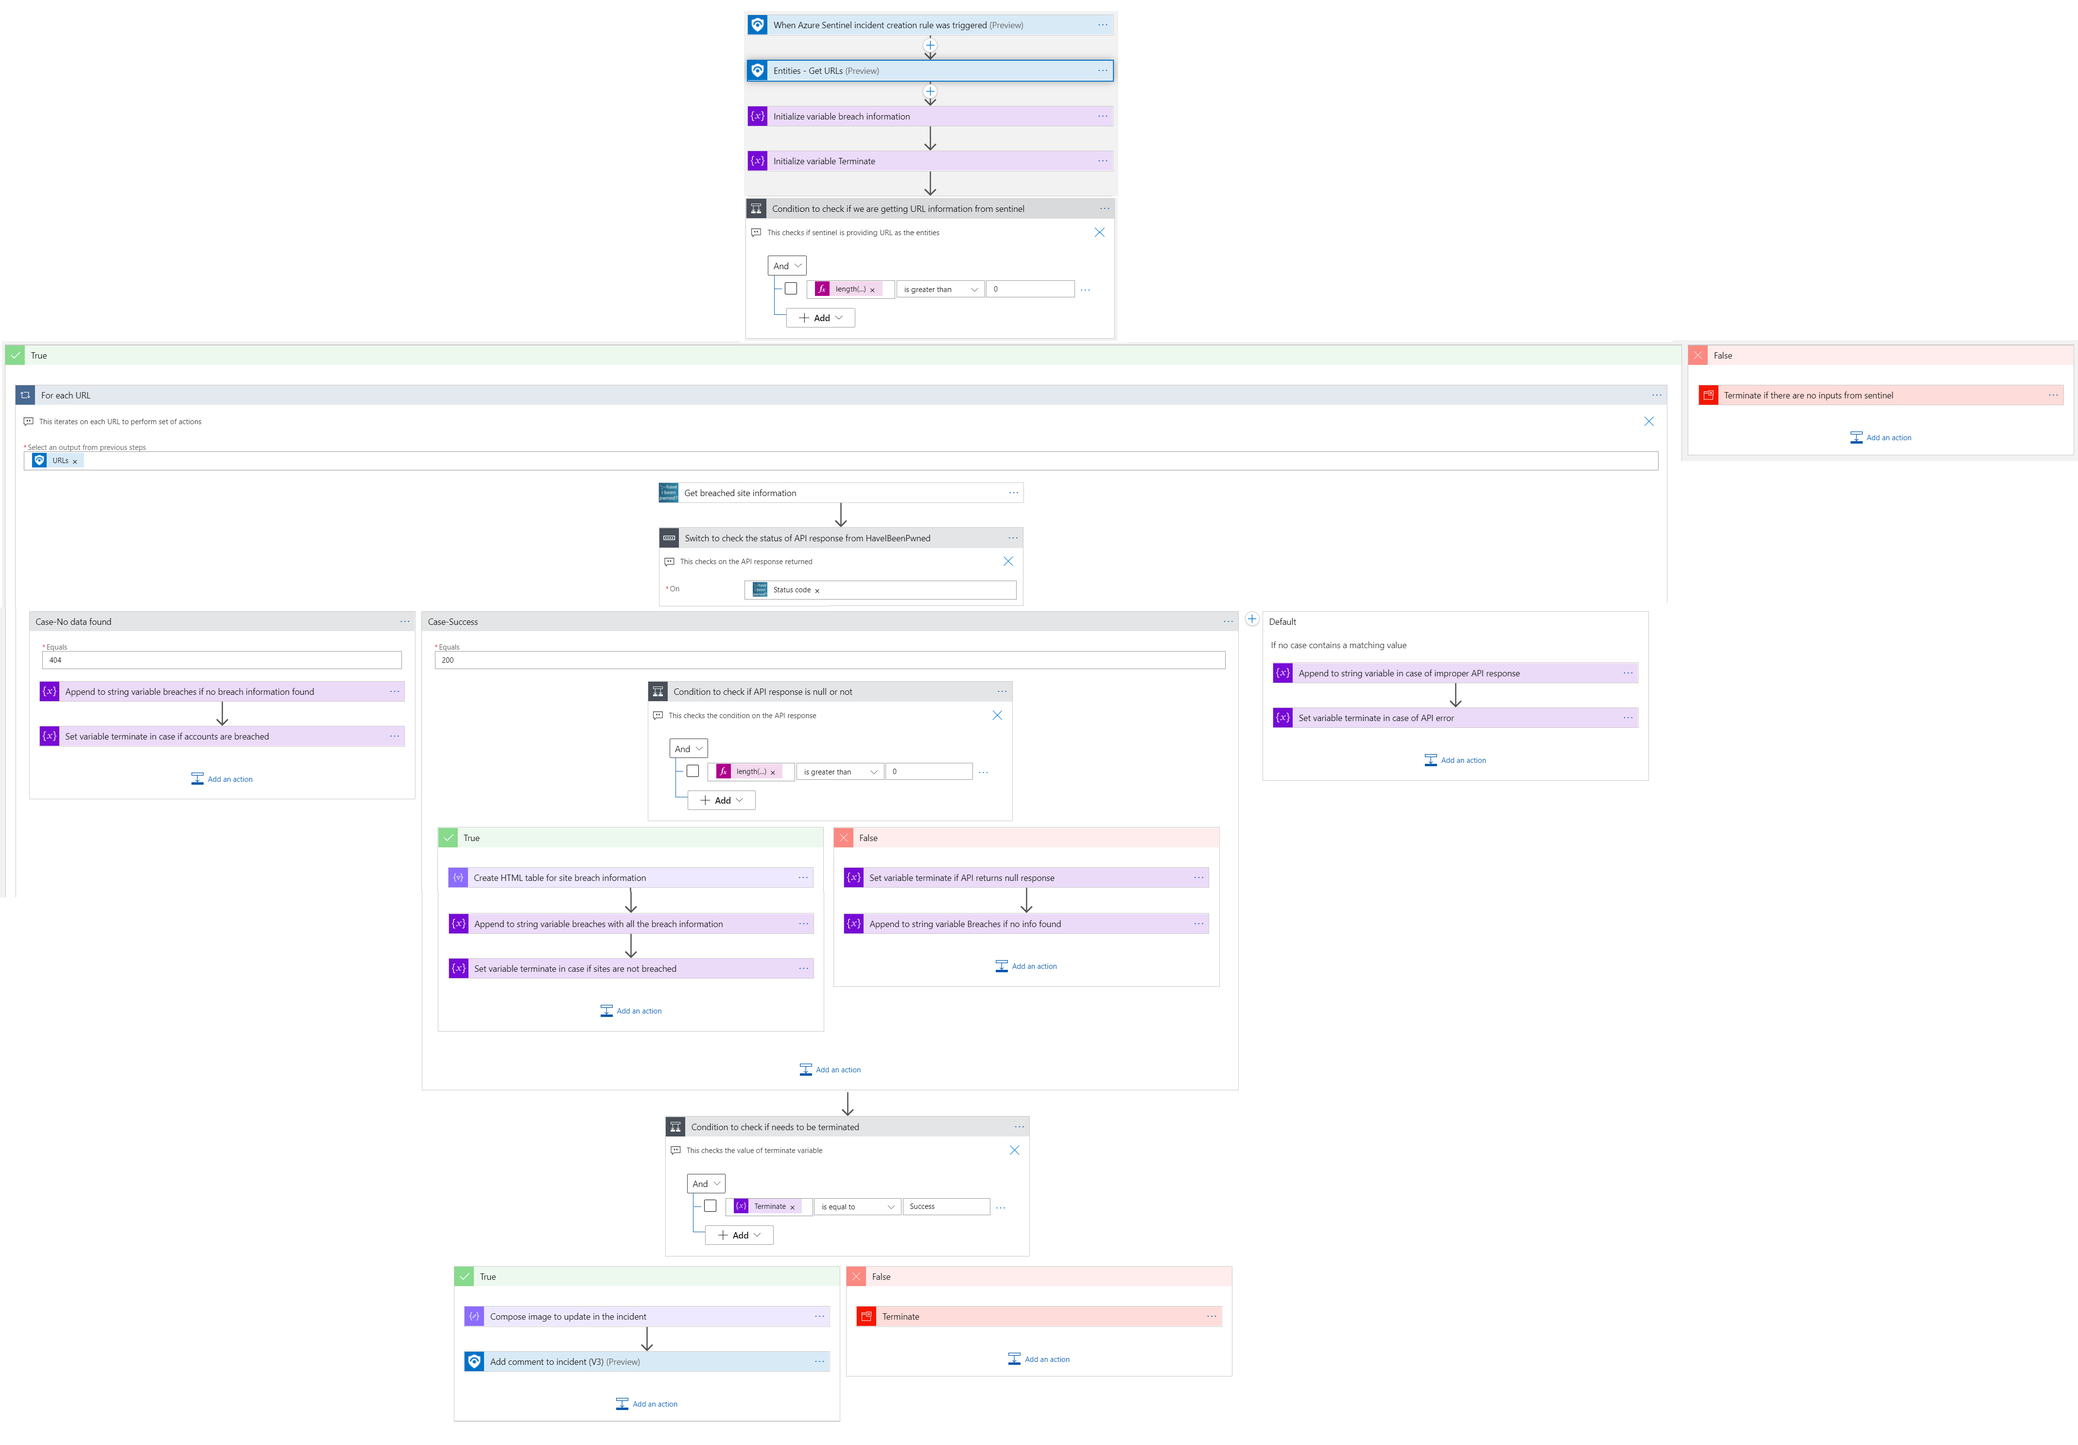
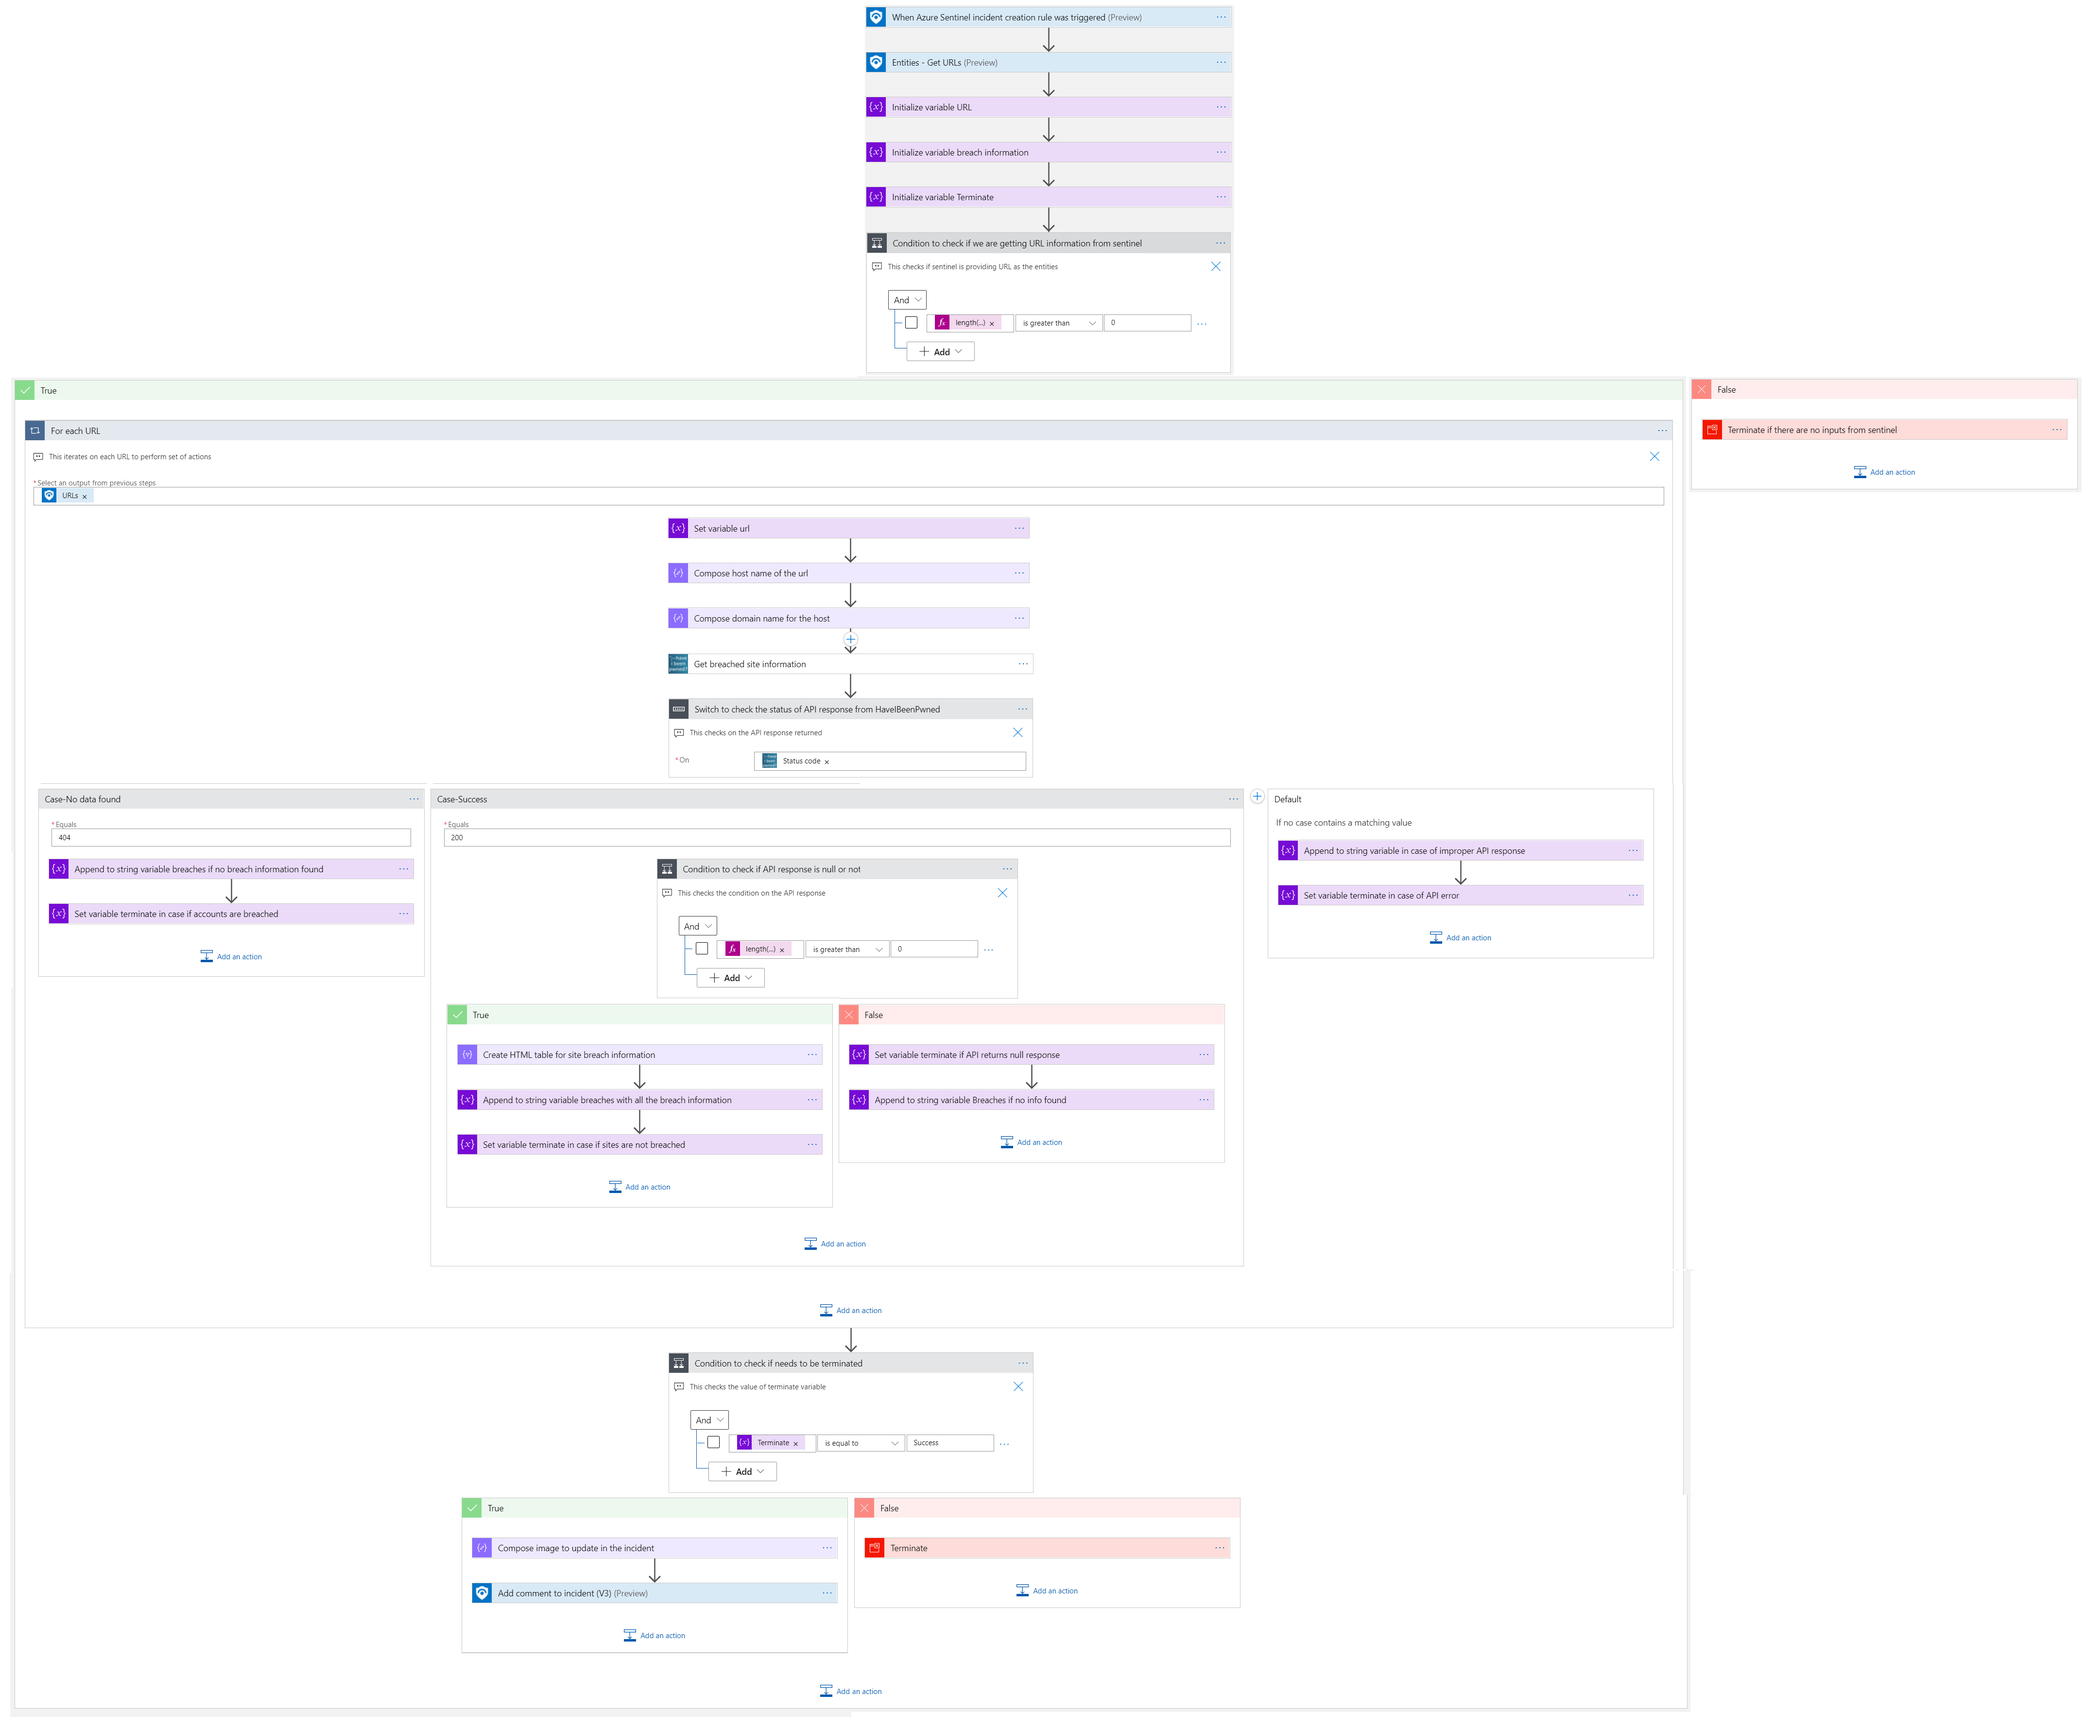
trimmed the URL to make it as domain format in "Get site breaches enrichment" playbook and added domain as an optional parameter in custom connector action

diff --git a/Playbooks/HaveIBeenPwned/Playbooks/HaveIBeenPwned_Enrichment_GetSiteBreaches/readme.md b/Playbooks/HaveIBeenPwned/Playbooks/HaveIBeenPwned_Enrichment_GetSiteBreaches/readme.md
@@ -55,6 +55,6 @@ Iterates on the URL found in this incident and performs the following:
 
  3. Add a comment to the incident with the breach information collected which looks like below.
 
-![comment to the incident](./Images/IncidentcommentLight.PNG)
-![comment to the incident](./Images/IncidentcommentDark.PNG)
+![comment to the incident](./Images/IncidentcommentLight.png)
+![comment to the incident](./Images/IncidentcommentDark.png)
 
